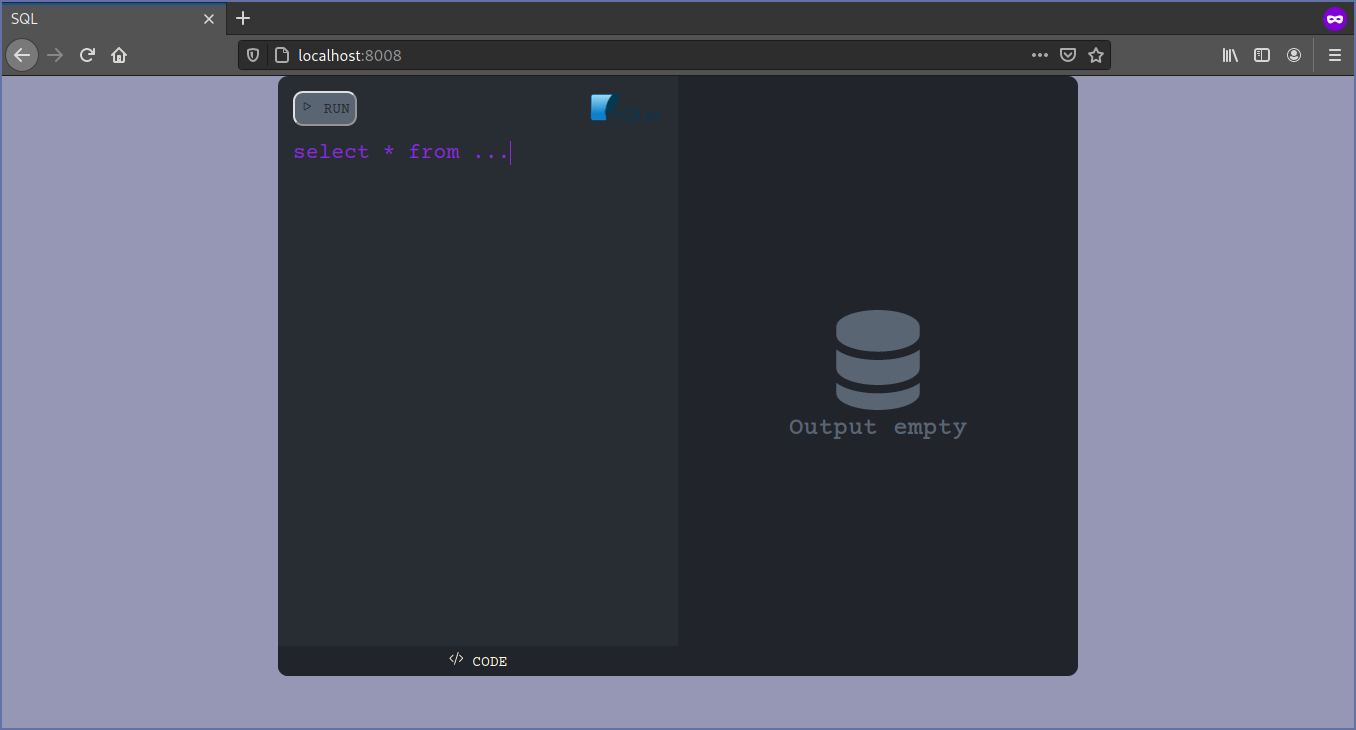
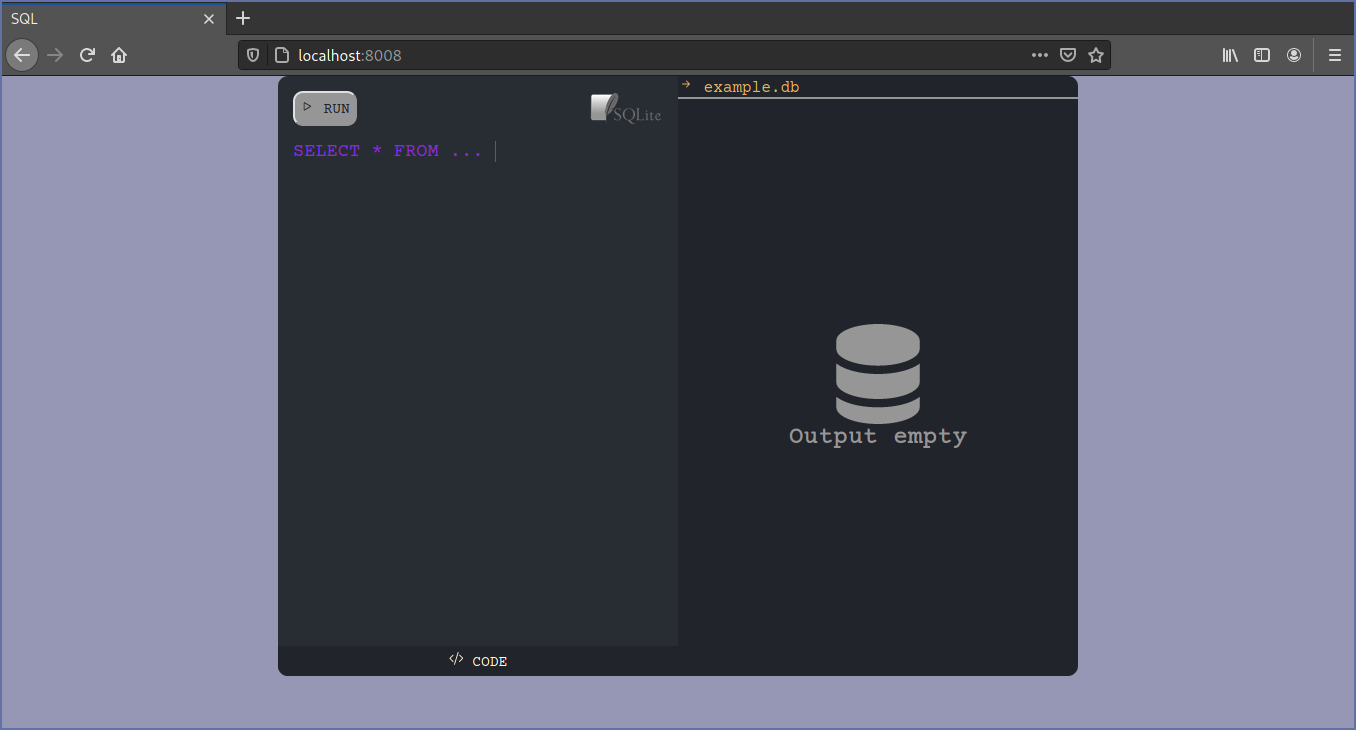
Uso do Async/Await e reduce para percorrer o array com as Queries para aceitar multiplas queries Selects

diff --git a/api.js b/api.js
@@ -19,7 +19,7 @@ app.get('/', function(req, res){
 })
 
 //Database
-app.post('/query', function(req, res){
+app.post('/query', async function(req, res){
 	const queries = req.body.array
 	// Example of const queries => ['SELECT * FROM DB', 'UPDATE ']
 
@@ -27,19 +27,30 @@ app.post('/query', function(req, res){
 	queries.forEach( (element, indice) => {
 		console.log( indice+1,') ',element.trim())
 	})
-	
-	queries.forEach( (el,ind) => {
+
+	const outputForQueries = await queries.reduce( async (lastTable, el, ind) => {
 		if(el.toLowerCase().includes('select')){
 			//Query with select
-			sql.queryToSelect(el)
-				.then( response => res.send({ table:response}))
-				.catch((err) => res.send({'errorDatabase': err}))
+			try{
+				const responseDB = await sql.queryToSelect(el);
+				const tableInHtml = await responseDB;
+	
+				return {table: tableIndHtml}
+			}
+			catch(err){
+				console.log('ERROR SELECT: ',err)
+				return({error: err})
+			}
+
+
 		} else {
 			sql.queryToChangeDB(el)
 				.then(e=>console.log('ChangeDone: ',e))
 				.catch((err) => res.send({'errorDatabase': err}))
 		}
-	})
+	}, {})
+
+	res.send(outputForQueries)
 })
 
 app.listen( portServer,()=>console.log('Server running: http://localhost:'+portServer) )

diff --git a/client/index.html b/client/index.html
@@ -25,7 +25,7 @@
                 <img src="sqlite.png" alt="Sqlite Logo">
             </header>
             
-            <textarea spellcheck="false" name="script-area" wrap="off" id="" cols="50" rows="10"></textarea>
+            <textarea placeholder="SELECT * FROM panico" spellcheck="false" name="script-area" wrap="off" id="" cols="50" rows="10"></textarea>
 
             <button class="mode">
                 <svg width="1em" height="1em" viewBox="0 0 16 16" class="bi bi-code-slash" fill="currentColor" xmlns="http://www.w3.org/2000/svg">
